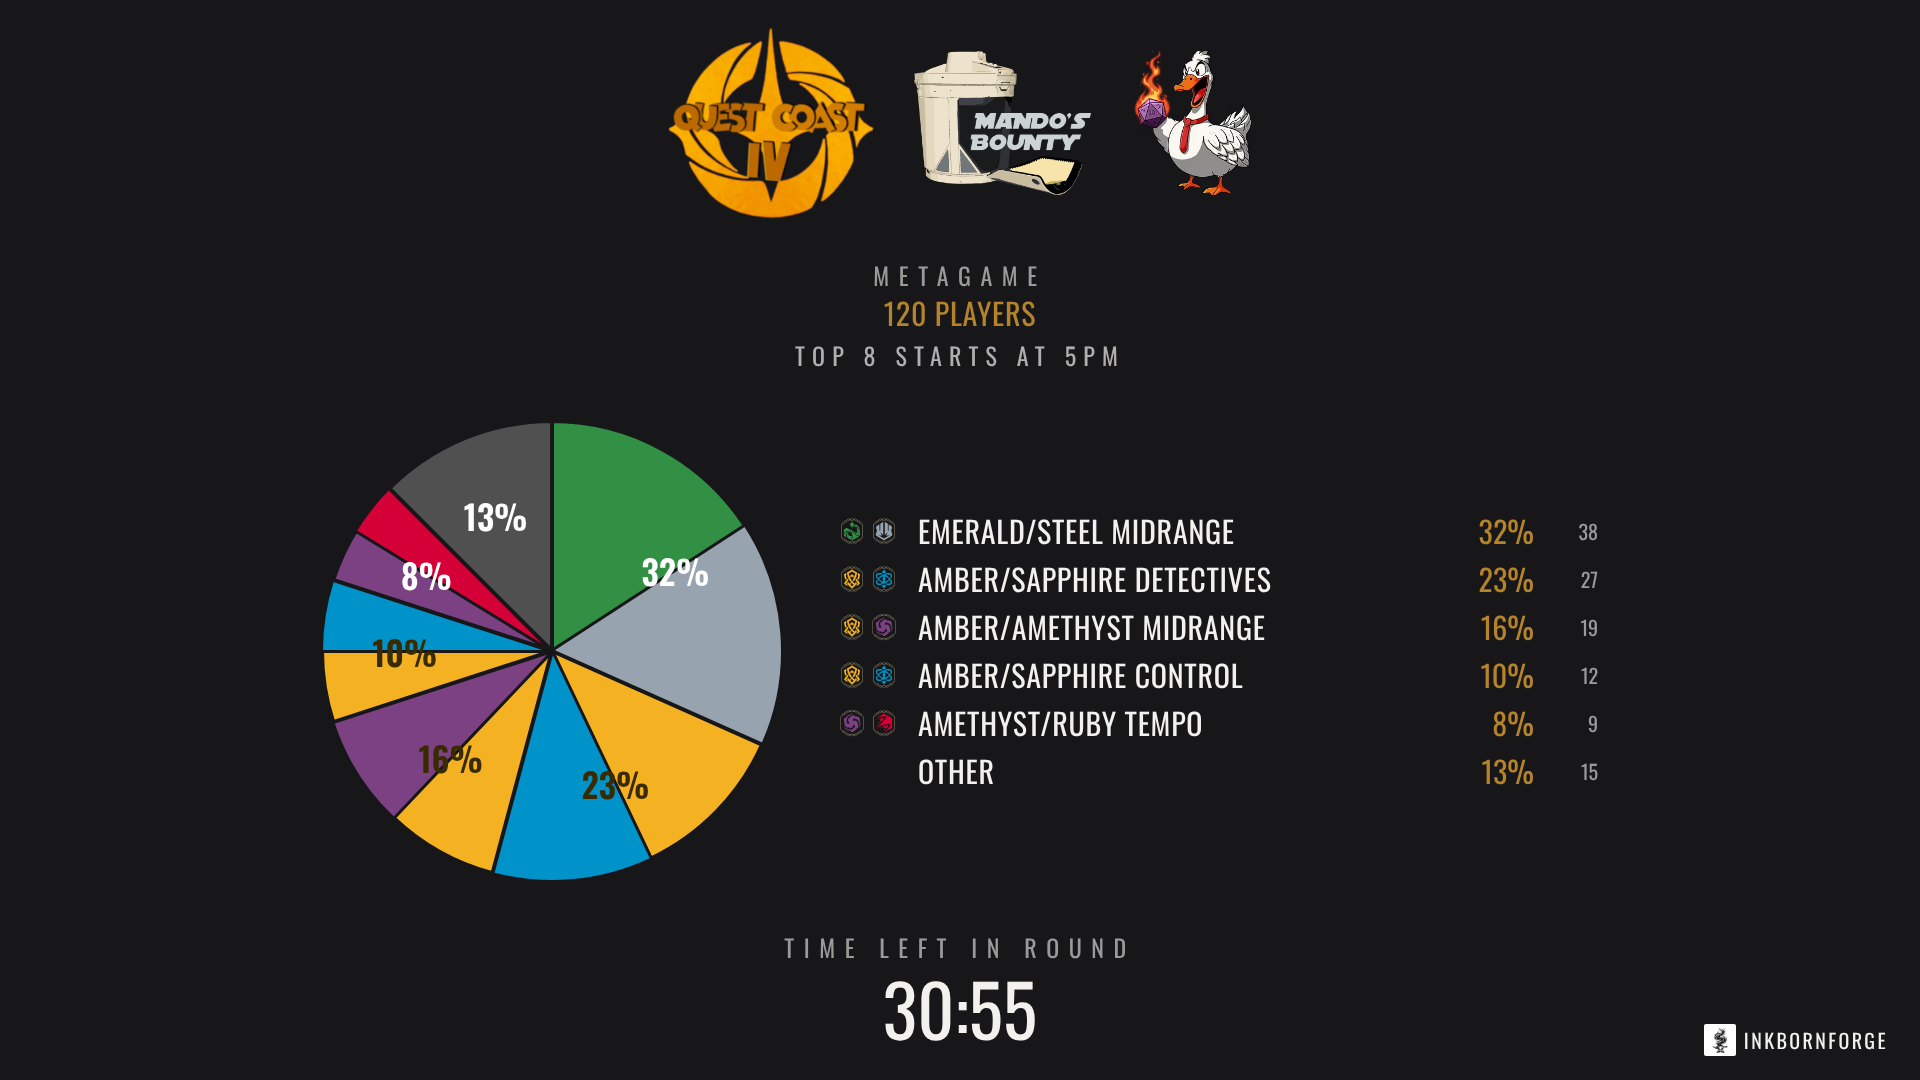
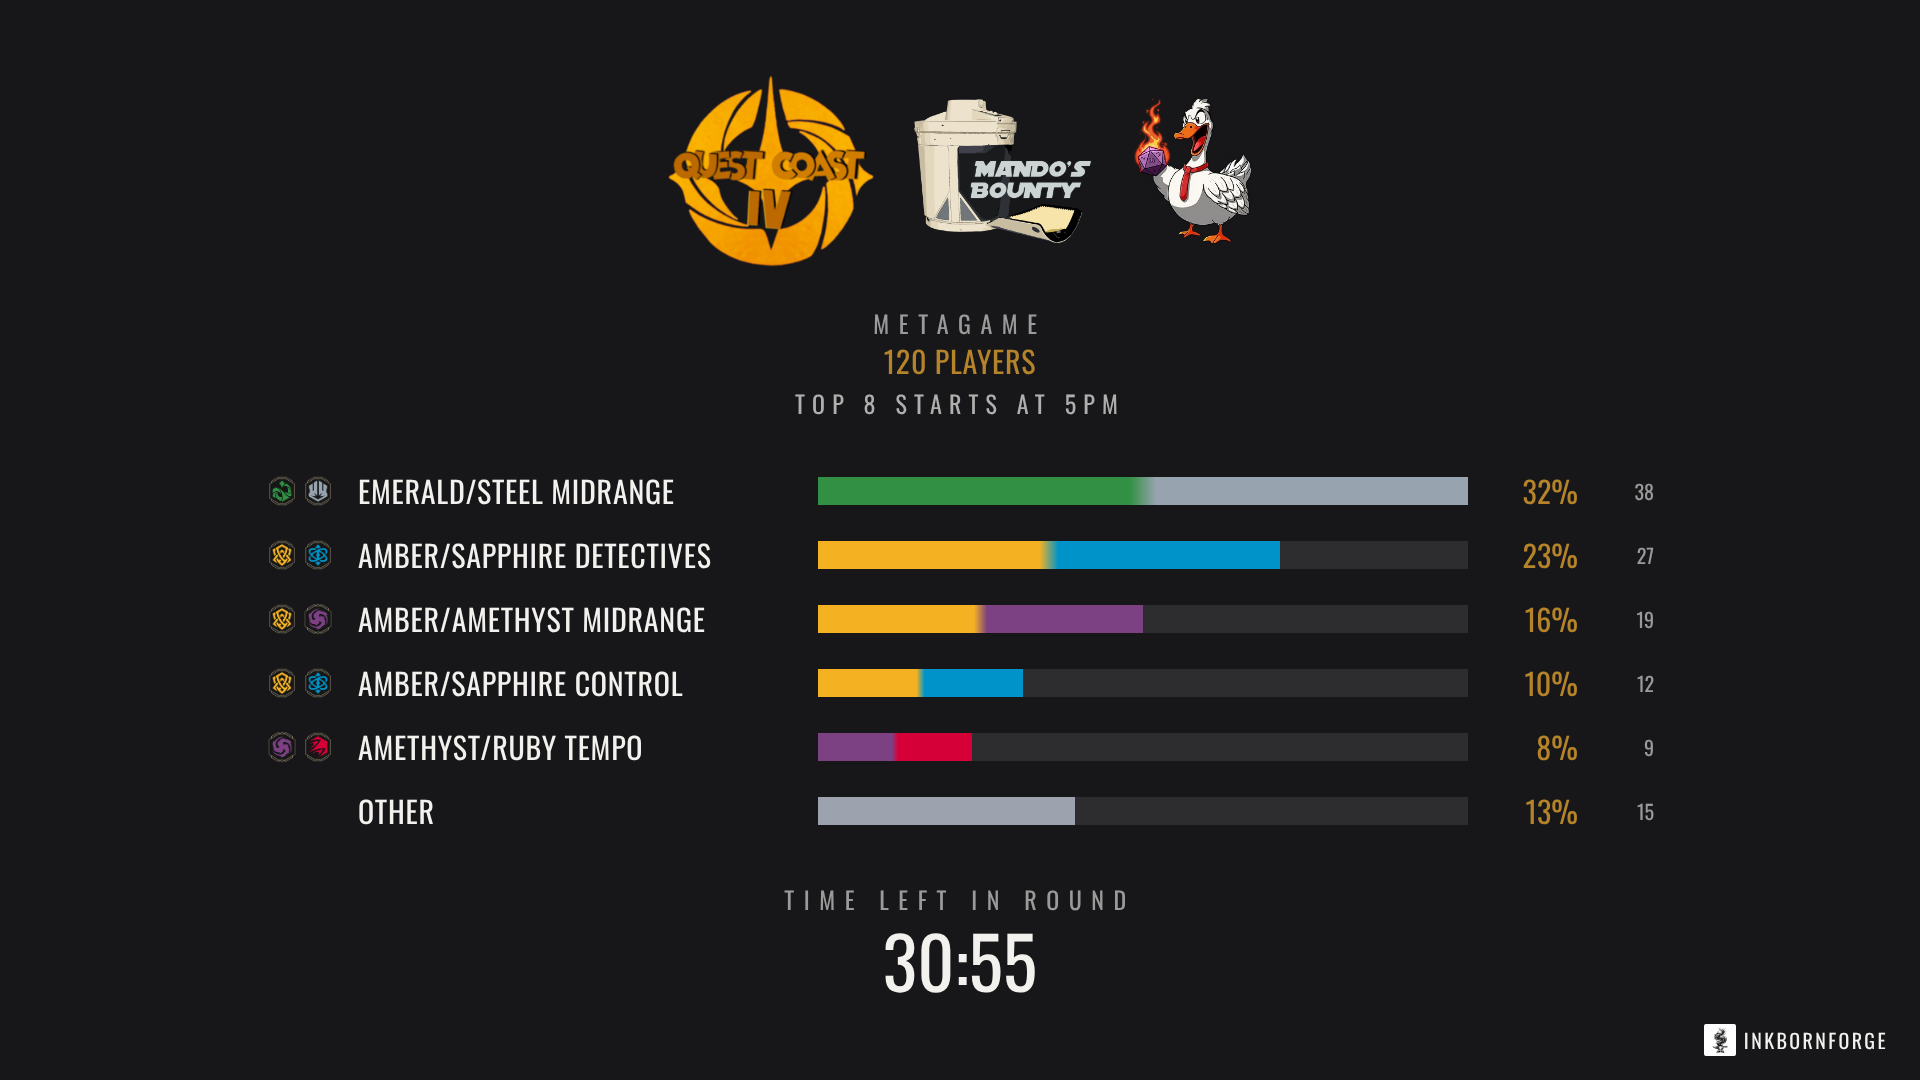
Stream Overlay: metagame as ink-pair bars instead of a pie
One bar per archetype, largest first, painted half in each of its inks
as the Inspector paints a deck; the pie's two-tone wedges read badly.

Claude-Session: https://claude.ai/code/session_01PuhSUkhQdqWYCWVwuEZRoD

diff --git a/src/pages/StreamOverlayViewPage.jsx b/src/pages/StreamOverlayViewPage.jsx
@@ -1,12 +1,11 @@
 import { useEffect, useMemo, useState } from 'react'
 import { useCards } from '../hooks/useCards'
 import { buildCardIndex } from '../lib/cardAnalysis'
-import { BUCKET_ORDER, BUCKET_LABEL, buildBuckets, matchDeckList } from '../lib/decklistShared'
+import { BUCKET_ORDER, BUCKET_LABEL, buildBuckets, matchDeckList, inkFill } from '../lib/decklistShared'
 import { CardBar } from '../components/DecklistCardBar'
 import { useSearchParams } from 'react-router-dom'
 import { useTransparentBackground } from '../hooks/useTransparentBackground'
 import { InkIcon } from '../components/InkIcons'
-import { INK_HEX, INK_TEXT_ON } from '../lib/inkColors'
 import { fetchPublicTable, subscribeToTable } from '../lib/streamTables'
 import {
   OVERLAY_WIDTH, OVERLAY_HEIGHT, MAX_GAME_WINS, WINNING_LORE, rowToState, timerRemainingMs, formatClock, winnerIndex, breakHeadline, DEFAULT_THEME, themeTextColor, nameSizeClass, STANDINGS_ROWS, metaSlices } from '../lib/streamOverlay'
@@ -350,32 +349,32 @@ function BreakScreen({ state, now }) {
   )
 }
 
-// The tournament's metagame (metaSlices over the panel's text): a pie with
-// each archetype's share, two-tone for an ink pair, Other in muted ink, and
-// a legend with inks, name, share and deck count. Framed over the gameplay
-// cam (same box as the player card) or bare on the break screen.
-const PIE_LABEL_MIN_SHARE = 0.07
-// Legend type steps down as the list grows, so a 15-archetype room still fits.
-const legendSize = n => (n > 10 ? 'text-xl' : n > 6 ? 'text-2xl' : 'text-3xl')
-
+// The tournament's metagame (metaSlices over the panel's text): one bar per
+// archetype, largest first, in its ink pair's two colors (inkFill, as the
+// Inspector paints a deck), the share and the deck count beside it. Framed
+// over the gameplay cam (same box as the player card) or bare on the break
+// screen. Type and row height step down as the list grows.
 function MetaPanel({ state, note, framed }) {
   const meta = metaSlices(state.metaText, state.metaPlayers)
   if (!meta) return null
-  const r = framed ? 280 : 230
-  const size = legendSize(meta.slices.length)
+  const n = meta.slices.length
+  const size = n > 10 ? 'text-xl' : n > 6 ? 'text-2xl' : 'text-3xl'
+  const rowH = n > 10 ? 40 : n > 6 ? 52 : 64
+  const barH = n > 10 ? 20 : 28
+  const max = Math.max(...meta.slices.map(sl => sl.share))
   const body = (
-    <div className="flex items-center justify-center gap-14 w-full h-full px-10">
-      <MetaPie slices={meta.slices} r={r} />
-      <div className={`min-w-0 flex-1 max-w-[760px] flex flex-col ${meta.slices.length > 10 ? 'gap-1.5' : 'gap-3'}`}>
-        {meta.slices.map(sl => (
-          <div key={sl.name} className="flex items-center gap-4">
-            <span className="flex gap-1 w-[64px] shrink-0">{sl.inks.map(ink => <InkIcon key={ink} color={ink} size={28} />)}</span>
-            <span className={`${size} uppercase tracking-wide leading-none truncate flex-1 min-w-0`}>{sl.name}</span>
-            <span className={`${size} tabular-nums text-(--accent) w-[80px] text-right`}>{Math.round(sl.share * 100)}%</span>
-            {sl.count != null && <span className="text-xl tabular-nums text-(--on-fill)/60 w-[48px] text-right">{sl.count}</span>}
+    <div className="flex flex-col justify-center w-full h-full px-14">
+      {meta.slices.map(sl => (
+        <div key={sl.name} className="flex items-center gap-5" style={{ height: rowH }}>
+          <span className="flex gap-1 w-[72px] shrink-0">{sl.inks.map(ink => <InkIcon key={ink} color={ink} size={n > 10 ? 26 : 32} />)}</span>
+          <span className={`${size} uppercase tracking-wide leading-none truncate w-[440px] shrink-0`}>{sl.name}</span>
+          <div className="flex-1 bg-(--on-fill)/10 overflow-hidden" style={{ height: barH }}>
+            <div className="h-full" style={{ width: `${(sl.share / max) * 100}%`, ...inkFill(sl.inks) }} />
           </div>
-        ))}
-      </div>
+          <span className={`${size} tabular-nums text-(--accent) w-[90px] text-right`}>{Math.round(sl.share * 100)}%</span>
+          <span className="text-xl tabular-nums text-(--on-fill)/60 w-[56px] text-right">{sl.count ?? ''}</span>
+        </div>
+      ))}
     </div>
   )
   if (framed) {
@@ -396,50 +395,8 @@ function MetaPanel({ state, note, framed }) {
         {meta.players && <div className="mt-1 text-3xl uppercase tracking-wide text-(--accent)">{meta.players} players</div>}
         {note && <div className="mt-2 text-2xl uppercase tracking-[0.3em] text-(--on-fill)/70">{note}</div>}
       </div>
-      <div style={{ height: r * 2 + 20 }} className="w-full">{body}</div>
+      <div style={{ width: 1500, height: n * rowH }}>{body}</div>
     </>
-  )
-}
-
-// A wedge of radius r from angle a to b (radians, clockwise from 12 o'clock).
-function wedge(a, b, r) {
-  const p = t => `${r + r * Math.sin(t)} ${r - r * Math.cos(t)}`
-  if (b - a >= 2 * Math.PI - 1e-6) return `M${r} 0 A${r} ${r} 0 1 1 ${r - 0.01} 0 Z`
-  return `M${r} ${r} L${p(a)} A${r} ${r} 0 ${b - a > Math.PI ? 1 : 0} 1 ${p(b)} Z`
-}
-
-// The wedges and in-slice labels for a pie, clockwise from 12 o'clock.
-function pieParts(slices, r) {
-  const total = slices.reduce((s, sl) => s + sl.share, 0)
-  let angle = 0
-  return slices.map(sl => {
-    const span = (sl.share / total) * 2 * Math.PI
-    const start = angle
-    angle += span
-    // An ink pair splits its wedge down the middle, one ink each side.
-    const fills = sl.inks.length ? sl.inks.map(ink => INK_HEX[ink]) : ['rgba(128,128,128,0.55)']
-    const step = span / fills.length
-    const mid = start + span / 2
-    return {
-      key: sl.name,
-      wedges: fills.map((fill, i) => ({ d: wedge(start + i * step, start + (i + 1) * step, r), fill })),
-      label: sl.share / total >= PIE_LABEL_MIN_SHARE ? {
-        x: r + r * 0.64 * Math.sin(mid), y: r - r * 0.64 * Math.cos(mid),
-        text: `${Math.round(sl.share * 100)}%`, color: sl.inks.length ? INK_TEXT_ON[sl.inks[0]] : '#ffffff',
-      } : null,
-    }
-  })
-}
-
-function MetaPie({ slices, r }) {
-  const parts = pieParts(slices, r)
-  return (
-    <svg width={r * 2} height={r * 2} viewBox={`0 0 ${r * 2} ${r * 2}`} className="shrink-0 font-display">
-      {parts.map(p => p.wedges.map((w, i) => <path key={`${p.key}-${i}`} d={w.d} fill={w.fill} stroke="var(--fill)" strokeWidth={i === 0 ? 4 : 2} />))}
-      {parts.map(p => p.label && (
-        <text key={`${p.key}-l`} x={p.label.x} y={p.label.y} textAnchor="middle" dominantBaseline="central" fill={p.label.color} fontSize={34} fontWeight={600}>{p.label.text}</text>
-      ))}
-    </svg>
   )
 }
 

diff --git a/src/pages/StreamOverlayPage.jsx b/src/pages/StreamOverlayPage.jsx
@@ -372,13 +372,13 @@ export function StreamOverlayPage() {
           )}
         </Card>
 
-        <Card title="Break screen" description="What the break screen shows: the pairing (with the last result or the next match), a standings or bracket snapshot from the linked event (Send standings / Send bracket in the Event card), or the metagame pie. Sending a snapshot switches to it; re-send after each round." className="p-5 lg:col-span-2">
+        <Card title="Break screen" description="What the break screen shows: the pairing (with the last result or the next match), a standings or bracket snapshot from the linked event (Send standings / Send bracket in the Event card), or the metagame chart. Sending a snapshot switches to it; re-send after each round." className="p-5 lg:col-span-2">
           <div className="flex flex-wrap items-center gap-2">
             {[
               ['', 'Pairing', true, ''],
               ['standings', 'Standings', Boolean(row.standings), row.standings ? `after ${row.standings.round} · ${row.standings.players} players` : 'none sent'],
               ['bracket', 'Bracket', Boolean(row.bracket), row.bracket ? `${row.bracket.phase} · ${row.bracket.rounds.length} rounds` : 'none sent'],
-              ['meta', 'Metagame', hasMeta, hasMeta ? `${metaSlices(row.meta_text, row.meta_players).slices.length} slices` : 'nothing typed'],
+              ['meta', 'Metagame', hasMeta, hasMeta ? `${metaSlices(row.meta_text, row.meta_players).slices.length} archetypes` : 'nothing typed'],
             ].map(([value, label, available, sub]) => (
               <Button key={value} size="sm" variant={row.break_panel === value ? 'primary' : 'secondary'} aria-pressed={row.break_panel === value} disabled={!available} onClick={() => setField('break_panel', value)}>
                 {label}{sub && <span className="normal-case tracking-normal font-sans opacity-70">· {sub}</span>}
@@ -400,7 +400,7 @@ export function StreamOverlayPage() {
           </div>
         </Card>
 
-        <Card title="Metagame" description={'The room\'s archetypes, one per line with a deck count ("Emerald/Steel Midrange 7") or a share ("… 28%"). Field Breakdown\'s Copy for Stream Overlay gives these lines. Shown as a pie over the gameplay cam or on the break screen; in a room over 50 players, archetypes under 5% fold into Other.'} className="p-5 lg:col-span-2">
+        <Card title="Metagame" description={'The room\'s archetypes, one per line with a deck count ("Emerald/Steel Midrange 7") or a share ("… 28%"). Field Breakdown\'s Copy for Stream Overlay gives these lines. Shown as bars over the gameplay cam or on the break screen; in a room over 50 players, archetypes under 5% fold into Other.'} className="p-5 lg:col-span-2">
           <div className="grid gap-4 md:grid-cols-[1fr_200px]">
             <Textarea value={row.meta_text} onChange={e => setField('meta_text', e.target.value)} rows={6} className="w-full font-mono text-xs" placeholder={'Emerald/Steel Midrange 7\nAmber/Sapphire Detectives 5\nAmber/Amethyst Midrange 4\n…'} />
             <div className="flex flex-col gap-3">

diff --git a/src/lib/streamOverlay.js b/src/lib/streamOverlay.js
@@ -83,7 +83,7 @@ export function rowToState(row) {
     results: row.results,
     breakPanel: row.break_panel,
     // The tournament's metagame as typed in the panel (metaSlices() turns it
-    // into the pie), the field size the "Other" fold reads, and whether the
+    // into the chart), the field size the "Other" fold reads, and whether the
     // live view is showing the pie over the cam.
     metaText: row.meta_text,
     metaPlayers: row.meta_players,
@@ -438,7 +438,7 @@ export function metaInks(name) {
   return [...new Set(inks)]
 }
 
-// The pie: each archetype's share of the field, largest first, with its
+// The chart: each archetype's share of the field, largest first, with its
 // inks. Counts share by their sum; percentages by 100, any remainder being
 // Other. In a room over META_OTHER_MIN_PLAYERS players (the typed field size,
 // else the sum of the counts) archetypes under META_OTHER_MAX_SHARE fold

diff --git a/CLAUDE.md b/CLAUDE.md
@@ -557,9 +557,9 @@ Two display details in the view: a player's name steps down a size class as it o
 
 **Player card** (migration `018_day_two_and_player_card.sql`): the pair's Tournament History archive data laid over the gameplay cam between games — each player's majors played, top cuts, Day 2s and best finishes on their own side, the head-to-head across every archived event (side events included) between. The OBS view has no session and the archive API requires one, so the data travels on the row: `player_card` (jsonb) is written by the panel's pairing send, which fetches both player histories and the head-to-head first and sends the pairing without a card if any of them fails (`buildPlayerCard()` in `streamOverlay.js`: every top cut and Day 2 first, then other finishes by rank, capped at `PLAYER_CARD_FINISHES`; meetings newest first with the winner as a side index; `shortEventName()` turns RPH's long names into "DLC Milwaukee" / "CCQ"). `card_shown` is the toggle (panel button or the 3 hotkey); it shares the slot over the cam with the decklist, so showing one hides the other. Swap sides mirrors the card's halves and head-to-head; a new feature match replaces it.
 
-**Standings and bracket on the break screen** (migration `020_stream_tables_break_panels.sql`): the Event card's Send standings / Send bracket buttons fetch the linked event (`fetchAllStandings()` for the current round; `fetchEventDetails()` + `fetchAllRoundMatches()` for the bracket) and write a snapshot to the row — `standings` (`buildStandingsSnapshot()`: every ranked player with record and points, plus the round and field size; the break screen shows the top `STANDINGS_ROWS`, the caster notes all of them in columns across the bottom) or `bracket` (`buildBracketSnapshot()`: the elimination phase's rounds in table order, each match's names, winner side and score; round names from `lib/bracket.js`, shared with `EliminationBracket`) — and sets `break_panel` to it. The break screen shows the pairing (default, `''`), the standings in two columns, the bracket (one column per round, box height from the biggest round so a Top 32 fits), or the metagame pie (`'meta'`, below); the panel's Break screen card switches between whichever have been sent. Snapshots, not live: the OBS view has no session, so the operator re-sends after each round. Send bracket errors rather than sending an empty bracket before the top cut has matches. Clear table drops both.
+**Standings and bracket on the break screen** (migration `020_stream_tables_break_panels.sql`): the Event card's Send standings / Send bracket buttons fetch the linked event (`fetchAllStandings()` for the current round; `fetchEventDetails()` + `fetchAllRoundMatches()` for the bracket) and write a snapshot to the row — `standings` (`buildStandingsSnapshot()`: every ranked player with record and points, plus the round and field size; the break screen shows the top `STANDINGS_ROWS`, the caster notes all of them in columns across the bottom) or `bracket` (`buildBracketSnapshot()`: the elimination phase's rounds in table order, each match's names, winner side and score; round names from `lib/bracket.js`, shared with `EliminationBracket`) — and sets `break_panel` to it. The break screen shows the pairing (default, `''`), the standings in two columns, the bracket (one column per round, box height from the biggest round so a Top 32 fits), or the metagame chart (`'meta'`, below); the panel's Break screen card switches between whichever have been sent. Snapshots, not live: the OBS view has no session, so the operator re-sends after each round. Send bracket errors rather than sending an empty bracket before the top cut has matches. Clear table drops both.
 
-**Metagame pie** (migration `024_stream_tables_meta.sql`): the room's archetypes typed into the panel's Metagame card, one per line as `<name> <decks>` or `<name> <n>%` (`meta_text`; Field Breakdown's "Copy for Stream Overlay" produces the lines), plus an optional field size (`meta_players`, blank meaning the counts' total). `metaSlices()` in `streamOverlay.js` (unit-tested) turns the text into the pie: each archetype's share, largest first; in a room over `META_OTHER_MIN_PLAYERS` (50) players, archetypes under `META_OTHER_MAX_SHARE` (5%) fold into "Other", which also absorbs any typed "Other" line and, in percent mode, the remainder to 100. Slices are colored by the inks the name starts with (`metaInks()`: "Emerald/Steel Midrange" → a two-tone wedge split down the middle, Other in muted gray), with the share labeled inside slices from 7% and a legend with ink icons, name, share and count. `MetaPanel` in the view renders it in two places: over the gameplay cam (`meta_shown`, the panel's Show on stream or the 4 hotkey; it shares the slot with the decklist and player card, so showing one hides the others) and as a fourth break-screen panel (`break_panel = 'meta'`). Clear table hides it but keeps the text, which is the event's, not the pairing's.
+**Metagame chart** (migration `024_stream_tables_meta.sql`): the room's archetypes typed into the panel's Metagame card, one per line as `<name> <decks>` or `<name> <n>%` (`meta_text`; Field Breakdown's "Copy for Stream Overlay" produces the lines), plus an optional field size (`meta_players`, blank meaning the counts' total). `metaSlices()` in `streamOverlay.js` (unit-tested) turns the text into the chart's rows: each archetype's share, largest first; in a room over `META_OTHER_MIN_PLAYERS` (50) players, archetypes under `META_OTHER_MAX_SHARE` (5%) fold into "Other", which also absorbs any typed "Other" line and, in percent mode, the remainder to 100. `MetaPanel` in the view draws one bar per archetype, its length relative to the biggest, painted in the inks the name starts with (`metaInks()`: "Emerald/Steel Midrange" → `inkFill()`'s half-emerald, half-steel bar, Other in gray), with ink icons, the share and the count beside it; type and row height step down as the list grows. (A pie was tried first and dropped: ink-pair wedges read badly.) It renders in two places: over the gameplay cam (`meta_shown`, the panel's Show on stream or the 4 hotkey; it shares the slot with the decklist and player card, so showing one hides the others) and as a fourth break-screen panel (`break_panel = 'meta'`). Clear table hides it but keeps the text, which is the event's, not the pairing's.
 
 **Day 2 in the archive:** `tournament_history_standings.made_day_two` (same migration), precomputed at import like `made_top_cut`: a player made Day 2 if they played a match in the event's second Swiss phase (a DLC's "Day Two Swiss"; matches carry `phase_name`), counted only when that phase holds fewer players than started — a few side events run everyone through two Swiss phases. The migration's UPDATE backfills already-imported events from their matches. `player-history` returns `madeDayTwo` per event and `dayTwoCount`.
 
